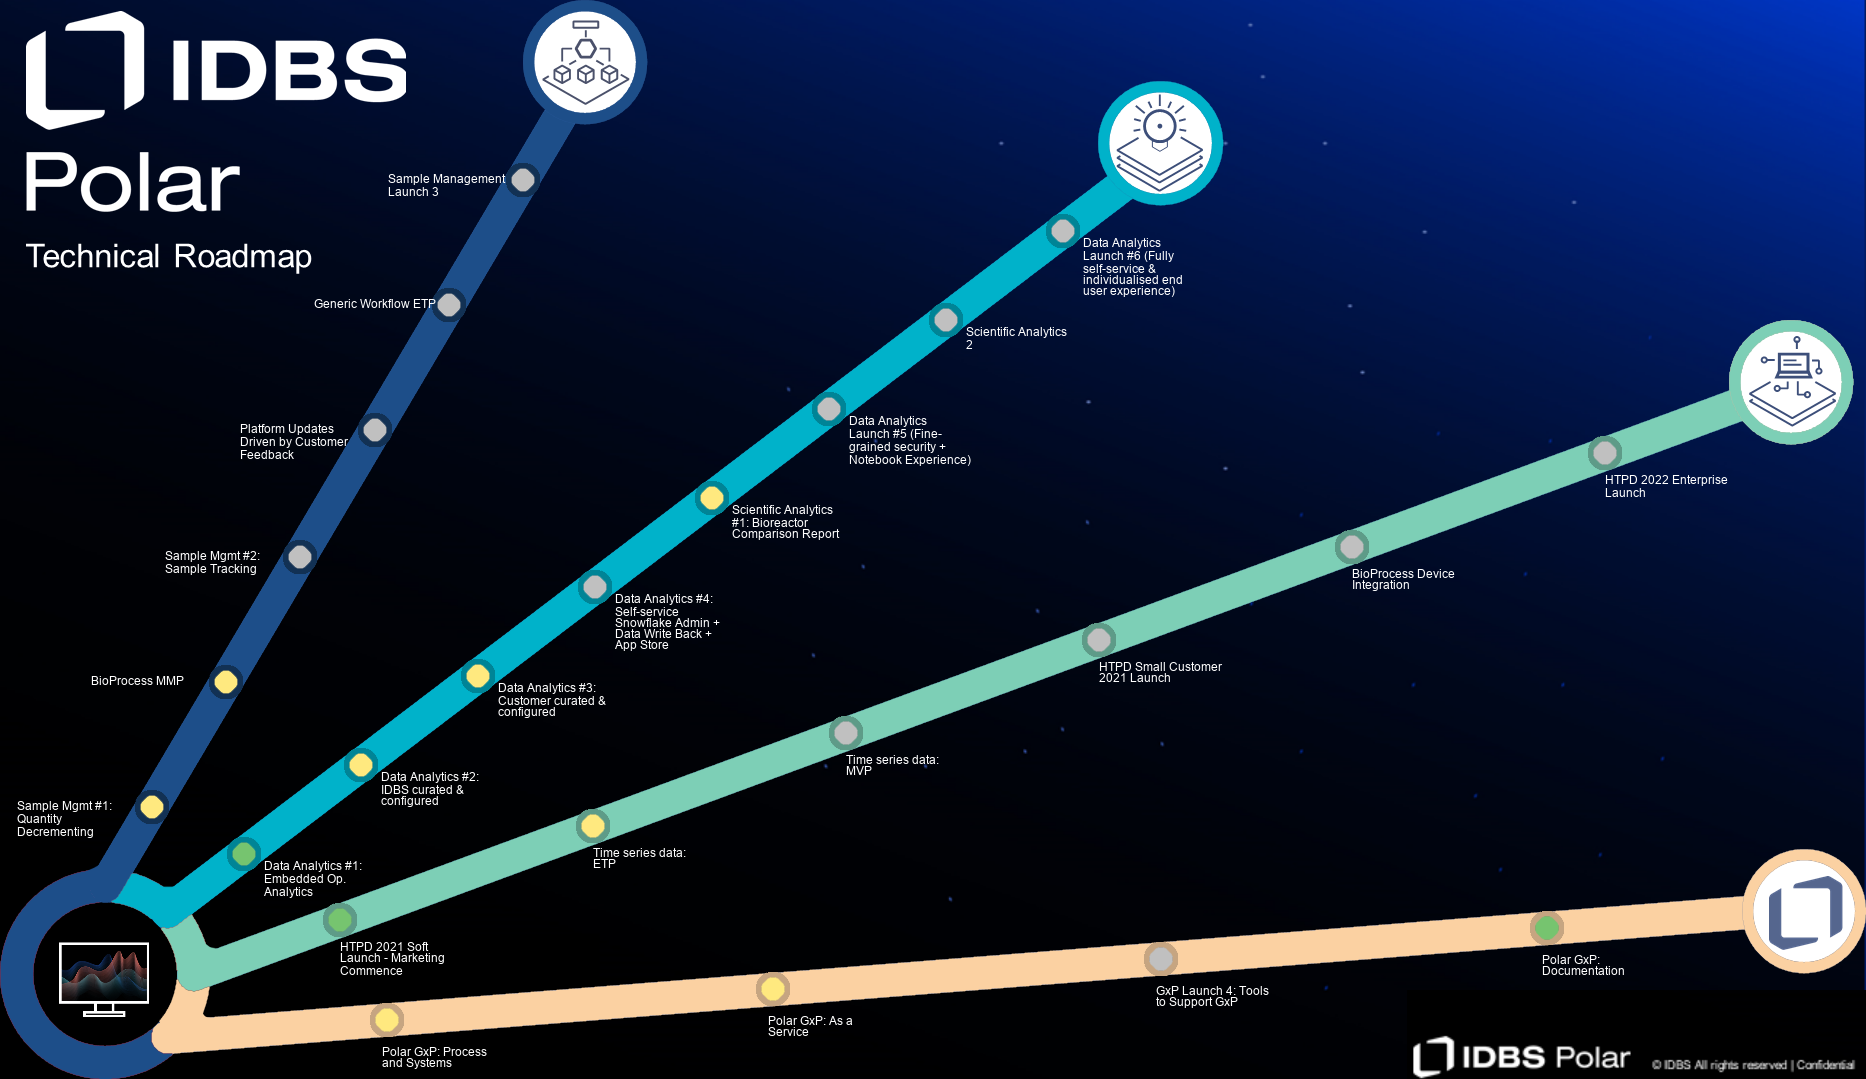
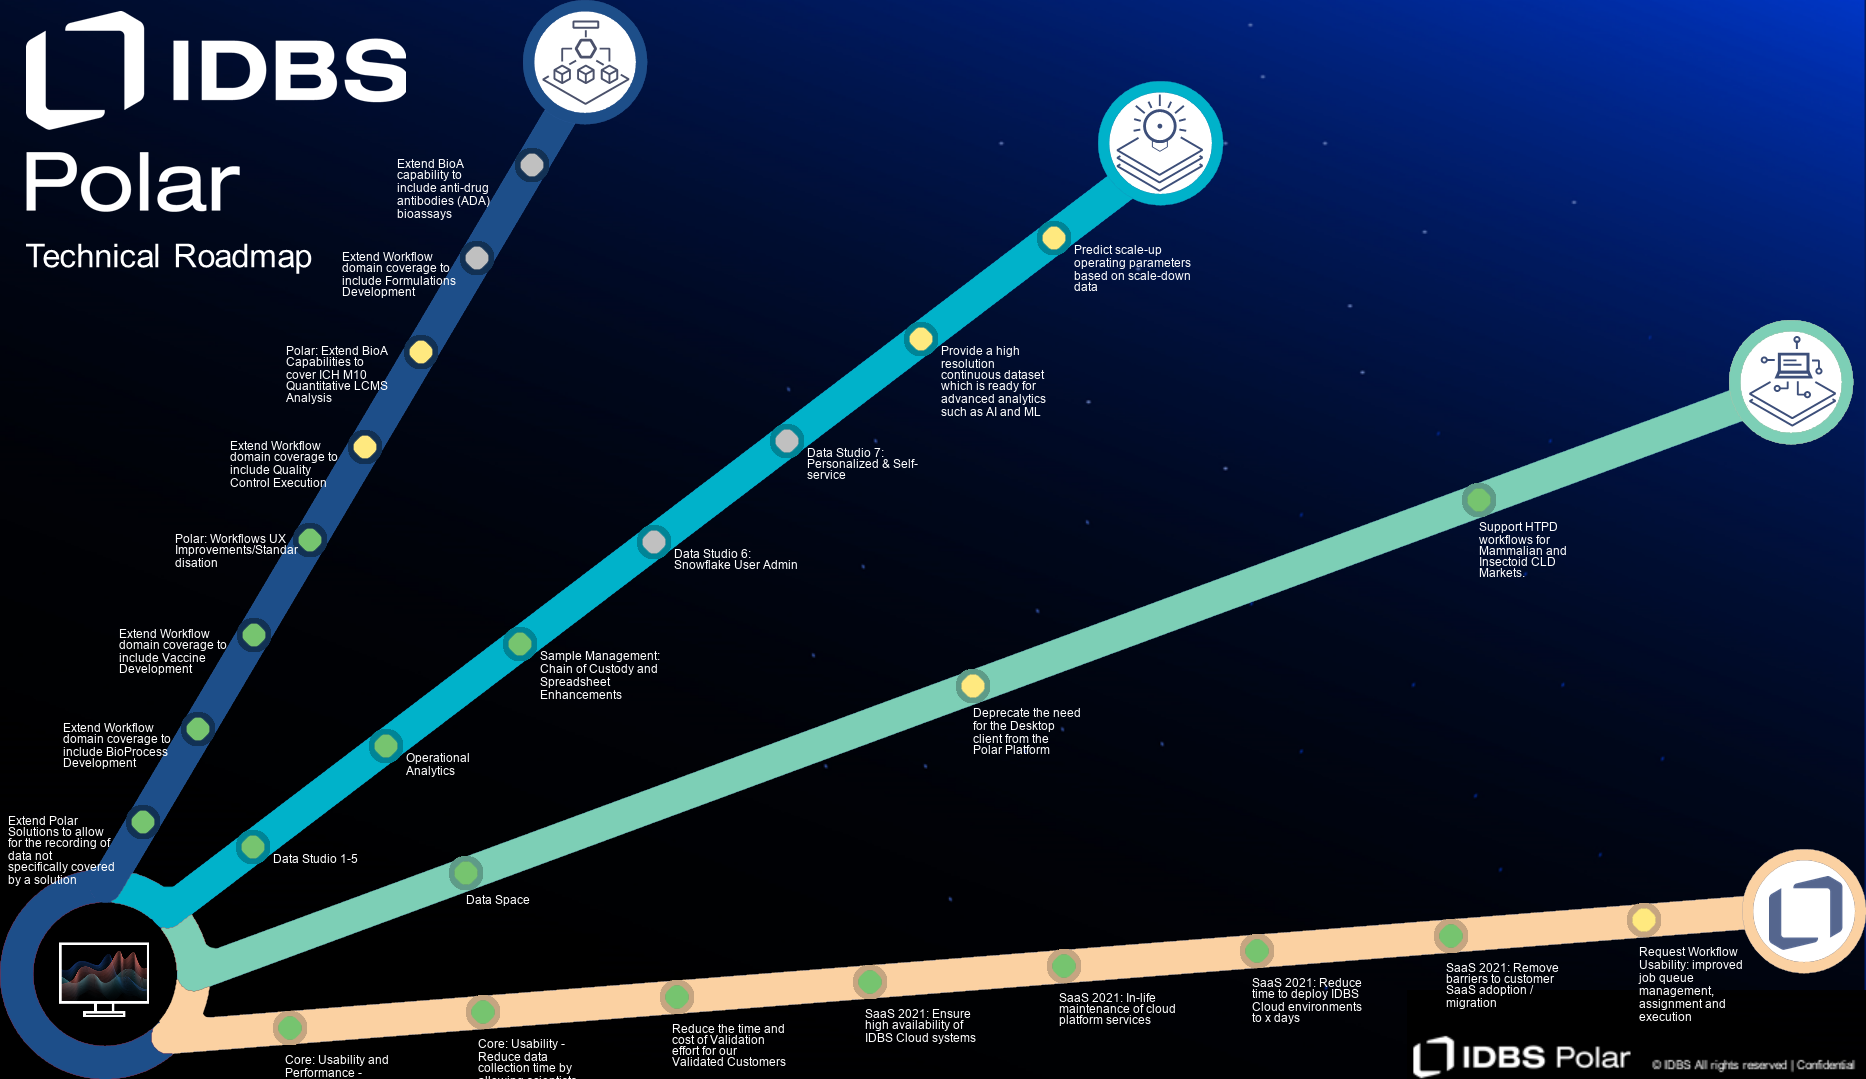
Updated to use Initiatives

diff --git a/auto_strat_diagram.py b/auto_strat_diagram.py
@@ -2,22 +2,31 @@ import requests
 import json
 from PIL import Image, ImageDraw, ImageFont
 from datetime import datetime
+import datetime
 import textwrap
 from requests.auth import HTTPBasicAuth
 
 
-def get_call(api_url):
+def get_call(api_url, return_name):
     baseurl = 'https://idbs-hub.aha.io'
[1 lines of base64/hex data omitted]
     headers = {'accept': 'application/json',
                'contentType': 'application/json',
                'authorization': "Bearer {}".format(apikey)}
-    params = 'fields=name,workflow_status:name,custom_fields'
 
     resurl = baseurl + api_url
-    get_response = requests.get(resurl, headers=headers, params=params)
+    init_pages = []
 
-    return get_response.content
+    for pagination in range(1, 6): #Need to make the max range dynamic
+        params = 'fields=name,workflow_status:name,custom_fields&page=' + str(pagination)
+        get_response = requests.get(resurl, headers=headers, params=params)
+        json_data = get_response.json()
+        next_init_pages = json_data[return_name]
+
+        for i in next_init_pages:
+            init_pages.append(i)
+
+    return init_pages
 
 def map_generate(initiative_dictionary, co_ordinates_file, type, back_image):
     # create the roadmap
@@ -40,11 +49,11 @@ def map_generate(initiative_dictionary, co_ordinates_file, type, back_image):
     while x < init_loop:
 
         rel_name = ''
-        rel_date = datetime.strptime('2999-01-01', '%Y-%m-%d')
+        rel_date = datetime.datetime.strptime('2999-01-01', '%Y-%m-%d')
 
         for init in initiatives:
-            if rel_date > datetime.strptime(initiatives[init]['external_release_date'], '%Y-%m-%d'):
-                rel_date = datetime.strptime(initiatives[init]['external_release_date'], '%Y-%m-%d')
+            if rel_date > datetime.datetime.strptime(initiatives[init]['external_release_date'], '%Y-%m-%d'):
+                rel_date = datetime.datetime.strptime(initiatives[init]['external_release_date'], '%Y-%m-%d')
                 rel_name = init
 
         initiative_name = initiatives[rel_name]['name']
@@ -139,34 +148,67 @@ def map_generate(initiative_dictionary, co_ordinates_file, type, back_image):
 def poll_aha_goals():
     apiurl = '/api/v1/initiatives'
 
-    response = get_call(apiurl)
-    json_response = json.loads(response)
-
-    goals = json_response['initiatives']
+    response = get_call(apiurl, 'initiatives')
+    #json_response = json.loads(response)
+    goals = response
 
     solution_goals = {}
     for goal in goals:
+        d_minus = 0
         is_solution = False
-        properties = {'name': goal['name'], 'status': goal['status']}
+        properties = {'name': goal['name'],
+                      'launch_confidence': '',
+                      'pillar': 'Other'
+                      }
 
         if 'custom_fields' in goal:
-            custom_fields = goal['custom_fields']
-            for custom_field in custom_fields:
-                if custom_field['key'] == 'primary_resource_domain':
-                    if custom_field['value'] == 'Solutions':
+            for custom_field in goal['custom_fields']:
+                if custom_field['key'] == 'market':
+                    if custom_field['value'] == 'BPLM' or custom_field['value'] == 'Both':
                         is_solution = True
 
                 if custom_field['key'] == 'now_next_later':
-                    properties['priority'] = custom_field['value']
+                    if custom_field['value'] == 'Now':
+                        properties['launch_confidence'] = 'Confirmed'
+                    elif custom_field['value'] == 'Next':
+                        properties['launch_confidence'] = 'Estimated'
+                    else:
+                        properties['launch_confidence'] = 'Projected'
+
+                if custom_field['key'] == 'pillar':
+                    print(goal)
+                    print(len(custom_field['value']))
+                    if len(custom_field['value']) != 0:
+                        properties['pillar'] = custom_field['value'][0]
 
                 if custom_field['key'] == 'idbs_rice_score':
-                    properties['rice'] = custom_field['value']
+                    d_minus = custom_field['value']
 
-                if custom_field['key'] == 'technical_or_solution_domain':
-                    properties['technical'] = custom_field['value']
-
-                if custom_field['key'] == 'technical_or_solution_domain':
-                    properties['pillar'] = custom_field['value']
+        if goal['status'] == 'finished_[closed]' or goal['status'] == 'rejected':
+            properties['status'] = goal['status']
+            properties['released'] = True
+            properties['launch_confidence'] = 'Projected'
+        elif goal['status'] == 'in_progress_(resourced)_[implement]' or goal['status'] == 'in_progress_(un-resourced)_[implement]' or goal['status'] == 'on-hold':
+            properties['status'] = goal['status']
+            properties['released'] = False
+            temp_date = datetime.date.today()
+            properties['external_release_date'] = temp_date.strftime("%Y-%m-%d")
+        elif goal['status'] == 'selected_for_roadmap':
+            properties['status'] = goal['status']
+            properties['released'] = False
+            d_minus = 500 - d_minus
+            temp_date = datetime.date.today() + datetime.timedelta(days=d_minus)
+            properties['external_release_date'] = temp_date.strftime("%Y-%m-%d")
+        elif goal['status'] == 'poc_[measure/analyze]':
+            properties['status'] = goal['status']
+            properties['released'] = False
+            d_minus = 1000 - d_minus
+            temp_date = datetime.date.today() + datetime.timedelta(days=d_minus)
+            properties['external_release_date'] = temp_date.strftime("%Y-%m-%d")
+        else:
+            properties['status'] = goal['status']
+            properties['released'] = True
+            properties['launch_confidence'] = 'Projected'
 
         if is_solution is True:
             solution_goals[goal['id']] = properties
@@ -176,10 +218,10 @@ def poll_aha_goals():
 def poll_aha_releases():
     all_apiurl = '/api/v1/products/6979594302160412111/releases'
 
-    all_response = get_call(all_apiurl)
-    all_json_response = json.loads(all_response)
+    all_response = get_call(all_apiurl, 'releases')
+    #all_json_response = json.loads(all_response)
 
-    all_releases = all_json_response['releases']
+    all_releases = all_response # all_json_response['releases']
 
     releases = {}
 
@@ -188,16 +230,17 @@ def poll_aha_releases():
         release_id = all_release['id']
         apiurl = '/api/v1/releases/{}'.format(release_id)
 
-        response = get_call(apiurl)
-        json_response = json.loads(response)
-        temp_release = json_response['release']
+        response = get_call(apiurl, 'release')
+        #json_response = json.loads(response)
+        temp_release = response # json_response['release']
         print(temp_release)
+        # print(temp_release)
 
         properties = {'name': temp_release['name'],
                       'external_release_date': temp_release['external_release_date'],
                       'released': temp_release['released'],
                       'launch_confidence': '',
-                      'pillar': ''
+                      'pillar': 'Other'
                       }
 
         if 'custom_fields' in temp_release:
@@ -232,40 +275,51 @@ def update_confulence(image_file):
     resurl = baseurl + api_url
     get_response = requests.post(resurl, auth=auth, headers=headers, files={'file': image_file})
 
-    print(get_response)
+    #print(get_response)
 
     return get_response
 
 if __name__ == "__main__":
-    # all_solutions_work = poll_aha_releases()
-    # workflows_pillar = {}
-    # insights_pillar = {}
-    # integrations_pillar = {}
-    # other_pillar = {}
-    #
+    all_solutions_work = poll_aha_releases()
+    # all_solutions_work = poll_aha_goals()
+    workflows_pillar = {}
+    insights_pillar = {}
+    integrations_pillar = {}
+    other_pillar = {}
+
     # print(all_solutions_work)
-    # for x, y in all_solutions_work.items():
-    #
-    #     if y['pillar'] == 'Workflows' and y['released'] is False:
-    #         workflows_pillar[x] = y
-    #     if y['pillar'] == 'Integrations' and y['released'] is False:
-    #         insights_pillar[x] = y
-    #     if y['pillar'] == 'Insights' and y['released'] is False:
-    #         integrations_pillar[x] = y
-    #     if y['pillar'] == 'Other' and y['released'] is False:
-    #         other_pillar[x] = y
-    #
-    # image = Image.open('roadmap.png')
-    # back_image = image.copy()
-    #
-    # print(workflows_pillar)
-    # map_generate(workflows_pillar, 'workflow_co-ordinates.json', 'w', back_image)
-    # map_generate(insights_pillar, 'workflow_co-ordinates.json', 'i', back_image)
-    # map_generate(integrations_pillar, 'workflow_co-ordinates.json', 'd', back_image)
-    # map_generate(other_pillar, 'workflow_co-ordinates.json', 'c', back_image)
+    for x, y in all_solutions_work.items():
 
-    # back_image.save('roadmap_output.png')
+        if y['pillar'] == 'Workflows' and y['released'] is False:
+            workflows_pillar[x] = y
+        if y['pillar'] == 'Integrations' and y['released'] is False:
+            insights_pillar[x] = y
+        if y['pillar'] == 'Insights' and y['released'] is False:
+            integrations_pillar[x] = y
+        if y['pillar'] == 'Other' and y['released'] is False:
+            other_pillar[x] = y
 
-    update_confulence('roadmap_output.png')
+    image = Image.open('roadmap.png')
+    back_image = image.copy()
 
-    # back_image.show()
+    #print(workflows_pillar)
+    if len(workflows_pillar) > 0:
+        map_generate(workflows_pillar, 'workflow_co-ordinates.json', 'w', back_image)
+
+    #print(insights_pillar)
+    if len(insights_pillar) > 0:
+        map_generate(insights_pillar, 'workflow_co-ordinates.json', 'i', back_image)
+
+    #print(integrations_pillar)
+    if len(integrations_pillar) > 0:
+        map_generate(integrations_pillar, 'workflow_co-ordinates.json', 'd', back_image)
+
+    #print(other_pillar)
+    if len(other_pillar) > 0:
+        map_generate(other_pillar, 'workflow_co-ordinates.json', 'c', back_image)
+
+    back_image.save('roadmap_output.png')
+
+    # update_confulence('roadmap_output.png')
+
+    back_image.show()

diff --git a/Jira_Update.py b/Jira_Update.py
@@ -1,6 +1,7 @@
 import requests
 from requests.auth import HTTPBasicAuth
 import json
+from datetime import datetime
 
 def get_call(url, query):
     auth = HTTPBasicAuth('msmith@idbs.com', 'BzAruZiuJGgiC2prOI6CA93F')
@@ -16,13 +17,15 @@ def put_call(url, payload):
 
     response = requests.request("PUT", url, data=payload, headers=headers, auth=auth)
 
+    return response
+
 if __name__ == "__main__":
     postdict = {}
 
     #get the issues from the PLR board
     project = 'PLR'
     url = 'https://idbs-hub.atlassian.net/rest/api/3/search'
-    query = {'jql': 'project = ' + project + ' AND type = initiative AND status != New'}
+    query = {'jql': 'project = ' + project + ' AND type = initiative AND status != New AND status != completed'}
     response = get_call(url, query)
     PLRboard = response['issues']
 
@@ -50,6 +53,9 @@ if __name__ == "__main__":
         'get the status of the epics'
         ticketlist = []
         score = 0
+        start_date = datetime(1, 1, 1)
+        end_date = datetime(1, 1, 1)
+        total_score = 0
         for key in epic_id.values():
             if key[:4] == 'BPLM':
                 BOARD_Status = BPLM_Status
@@ -64,21 +70,57 @@ if __name__ == "__main__":
             query = {'jql': 'key = ' + key}
             response = get_call(url, query)
             tickets = response['issues']
-            score = score + BOARD_Status[tickets[0]['fields']['status']['name']]
 
+            try:
+                temp_start_date = datetime.strptime(tickets[0]['fields']['customfield_11901'], "%Y-%m-%d")
+                if start_date < temp_start_date:
+                    start_date = temp_start_date
+            except:
+                start_date = start_date
+                # print(tickets[0]['fields']['customfield_11901'])
+
+            try:
+                temp_end_date = datetime.strptime(tickets[0]['fields']['duedate'], "%Y-%m-%d")
+                if end_date < temp_end_date:
+                    end_date = temp_end_date
+            except:
+                end_date = end_date
+                # print(tickets[0]['fields']['duedate'])
+
+
+            score = BOARD_Status[tickets[0]['fields']['status']['name']]
+            total_score = total_score + score
             ticketlist.append(score)
 
         try:
-            score = round(score / len(ticketlist), 0)
+            score = round(total_score / len(ticketlist), 0)
+            postdict[init] = {'score': score,
+                              'start': start_date.strftime("%Y-%m-%d"),
+                              'due': end_date.strftime("%Y-%m-%d")}
+            # print(postdict[init])
         except:
             score = 0
 
-        postdict[init] = score
-
     #Post the status to PLR Board
     for key, value in postdict.items():
+        score_value = value['score']
+
+        if value['start'] != "0001-01-01":
+            start_value = value['start']
+        else:
+            start_value = None
+
+        if value['due'] != "0001-01-01":
+            due_value = value['due']
+        else:
+            due_value = None
+
+
         url = 'https://idbs-hub.atlassian.net/rest/api/3/issue/' + key
 
-        payload = json.dumps({"fields": {"customfield_12808":value}})
+        payload = json.dumps({"fields": {"customfield_12808": score_value, "customfield_12551": start_value, "customfield_12552": due_value}})
+
+        print(key + ': ' + payload)
 
         response = put_call(url, payload)
+        print(response)

diff --git a/Python_Linking_Report.py b/Python_Linking_Report.py
@@ -1,0 +1,45 @@
+import requests
+from requests.auth import HTTPBasicAuth
+import pandas as pd
+
+
+def get_call(_url, _query):
+    auth = HTTPBasicAuth('msmith@idbs.com', 'BzAruZiuJGgiC2prOI6CA93F')
+    headers = {'Accept': 'application/json'}
+
+    get_response = requests.request('GET', _url, headers=headers, params=_query, auth=auth).json()
+
+    return get_response
+
+
+if __name__ == "__main__":
+
+    # get the issues from the PLR board
+    project = 'PLR'
+    url = 'https://idbs-hub.atlassian.net/rest/api/3/search'
+    query = {'jql': 'project = ' + project + ' AND type = initiative AND status != New AND status != Done'}
+    response = get_call(url, query)
+    PLR_board = response['issues']
+    pandas_data = {}
+
+    jira_keys = []
+    for PLR in PLR_board:
+        jira_keys.append(PLR['key'])
+
+    for init in jira_keys:
+        url = 'https://idbs-hub.atlassian.net/rest/api/latest/issue/' + init + '/remotelink'
+        query = {}
+        response = get_call(url, query)
+
+        initiative = response
+        epics = []
+
+        if not initiative:
+            for epic in initiative:
+                epics.append(epic['object']['title'])
+
+            pandas_data[init] = epics
+
+    df = pd.DataFrame.from_dict(pandas_data, orient='index')
+
+    df.to_csv("output.csv")
